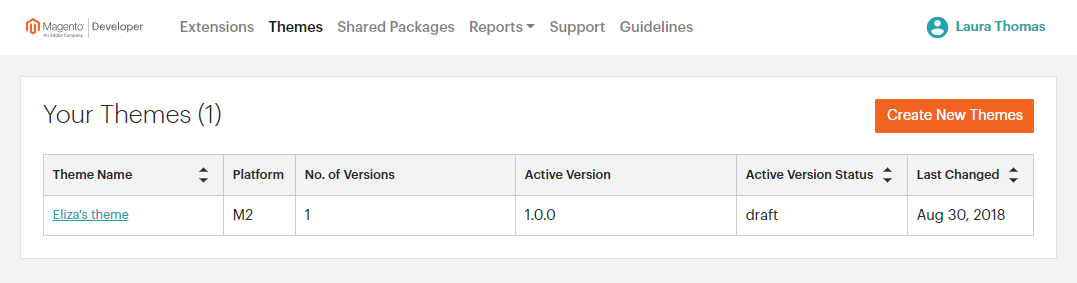
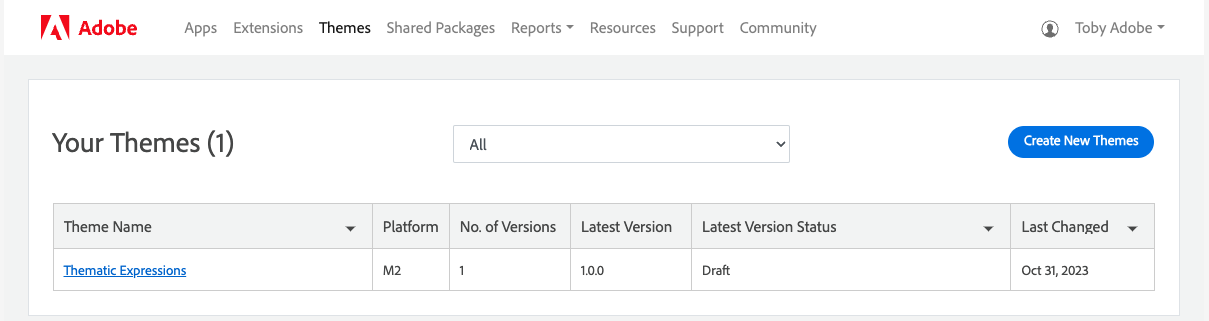
DevPortal updates to the "sellers" guide

diff --git a/src/pages/guides/sellers/extensions.md b/src/pages/guides/sellers/extensions.md
@@ -46,8 +46,8 @@ Provides instructions for adding new versions for an extension entry.
 | Column                | Description                                                                         |
 |-----------------------|-------------------------------------------------------------------------------------|
 | Extension Name        | The name of the extension.                                                          |
-| Platform              | Lists your products by platform. Options: All Platforms / Magento 1.x / Magento 2.x |
+| Platform              | The value of M2 indicates the app runs on Commerce 2.x. |
 | No. of Versions       | The number of versions of the extension that have been created.                     |
-| Active Version        | The version of the extension that is currently active.                              |
-| Active Version Status | The current position of the extension in the submission workflow.                   |
+| Latest Version        | The version of the extension that is currently active.                              |
+| Latest Version Status | The current position of the extension in the submission workflow.                   |
 | Last Changed          | The date of the last change made to the version.                                    |

diff --git a/src/pages/guides/sellers/apps.md b/src/pages/guides/sellers/apps.md
@@ -57,9 +57,9 @@ Provides instructions for adding new versions for an app entry.
 
 | Column                | Description                                                                         |
 |-----------------------|-------------------------------------------------------------------------------------|
-| App Name        | The name of the app.                                                          |
+| App Name              | The name of the app.                                                          |
 | Platform              | The value of M2 indicates the app runs on Commerce 2.x. |
 | No. of Versions       | The number of versions of the app that have been created.                     |
-| Active Version        | The version of the app that is currently active.                              |
-| Active Version Status | The current position of the app in the submission workflow.                   |
+| Latest Version        | The version of the app that is currently active.                              |
+| Latest Version Status | The current position of the app in the submission workflow.                   |
 | Last Changed          | The date of the last change made to the version.                                    |

diff --git a/src/pages/guides/sellers/themes.md b/src/pages/guides/sellers/themes.md
@@ -16,11 +16,11 @@ The process to submit a theme to Commerce Marketplace is basically the same as [
 
 ![](_images/themes.png)
 
-| Column | Description |
-|--------|-------------|
-| Theme Name | The name of the theme. |
-| Platform | Lists your products by platform. Options: All Platforms / Magento 1.x / Magento 2.x |
-| No. of Versions | The number of versions of the theme that have been created. |
-| Active Version | The version of the theme that is currently active. |
-| Active Version Status | The current position of the theme in the submission workflow. |
-| Last Changed | The date of the last change made to the version. |
+| Column                | Description |
+|-----------------------|-------------|
+| Theme Name            | The name of the theme. |
+| Platform              | The value of M2 indicates the app runs on Commerce 2.x. |
+| No. of Versions       | The number of versions of the theme that have been created. |
+| Latest Version        | The version of the theme that is currently active. |
+| Latest Version Status | The current position of the theme in the submission workflow. |
+| Last Changed          | The date of the last change made to the version. |

diff --git a/src/pages/guides/sellers/shared-packages.md b/src/pages/guides/sellers/shared-packages.md
@@ -15,10 +15,10 @@ The process to submit a shared package to Commerce Marketplace is basically the 
 
 ![](_images/your-shared-packages.png)
 
-| Column | Description |
-|--------|-------------|
-| Shared Package Name | The name of the shared package. |
-| No. of Versions | The number of versions of the shared package that have been created. |
-| Active Version | The version of the shared package that is currently active. |
-| Active Version Status | The current position of the shared package in the submission workflow. |
-| Last Changed | The date of the last change made to the version. |
+| Column                | Description |
+|-----------------------|-------------|
+| Shared Package Name   | The name of the shared package. |
+| No. of Versions       | The number of versions of the shared package that have been created. |
+| Latest Version        | The version of the shared package that is currently active. |
+| Latest Version Status | The current position of the shared package in the submission workflow. |
+| Last Changed          | The date of the last change made to the version. |

diff --git a/src/pages/guides/sellers/extension-version.md b/src/pages/guides/sellers/extension-version.md
@@ -26,7 +26,7 @@ For existing, approved extensions, follow these instructions to add new versions
     For **Requested Launch Date**, select an option:
 
     -  ***On Approval*** - Immediately publishes when the extensions receives Commerce Marketplace approval.
-    -  ***Requested Launch Date*** - Date and time for launching and publishing the extension to Marketplace. This date is not necessarily the date the product will launch; it is the earliest it can be launched, provided the product passes all reviews.
+    -  ***Requested Launch Date*** - Date for launching and publishing the extension to Marketplace. This date is not necessarily the date the product will launch; it is the earliest it can be launched, provided the product passes all reviews.
 
     ![](../sellers/_images/submit-new-version-detail.png)
 

diff --git a/src/pages/guides/sellers/app-version.md b/src/pages/guides/sellers/app-version.md
@@ -26,7 +26,7 @@ For existing, approved apps, follow these instructions to add new versions as av
     For **Requested Launch Date**, select an option:
 
     -  ***On Approval*** - Immediately publishes when the app receives Commerce Marketplace approval.
-    -  ***Requested Launch Date*** - Date and time for launching and publishing the app to Marketplace. This date is not necessarily the date the product will launch; it is the earliest it can be launched, provided the product passes all reviews.
+    -  ***Requested Launch Date*** - Date for launching and publishing the app to Marketplace. This date is not necessarily the date the product will launch; it is the earliest it can be launched, provided the product passes all reviews.
 
     ![](../sellers/_images/submit-new-version-detail.png)
 

diff --git a/src/pages/guides/sellers/developer-portal.md b/src/pages/guides/sellers/developer-portal.md
@@ -23,4 +23,4 @@ Once you're logged in, these menus appear at the top of portal front page.
 |Resources|Lists policy information and provides links to the documentation.|
 |[Support](https://commercemarketplace-support.adobe.com/hc/en-us)|Opens the [Commerce Marketplace Help Center](https://commercemarketplace-support.adobe.com/hc/en-us).|
 |Community|Links to the Adobe Developer [Magento Open Source](https://developer.adobe.com/open/magento) page. |
-|[Profile Information](profile-information.md)|Account Information<br/>Marketplace Profile<br/>Sign Out|
+|[Profile Information](profile-information.md)|Account Information<br/>Sign Out|
